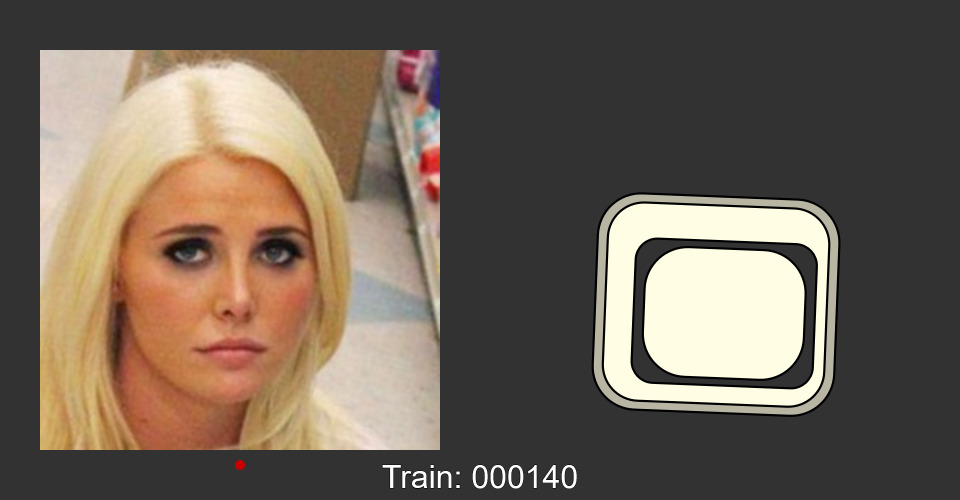
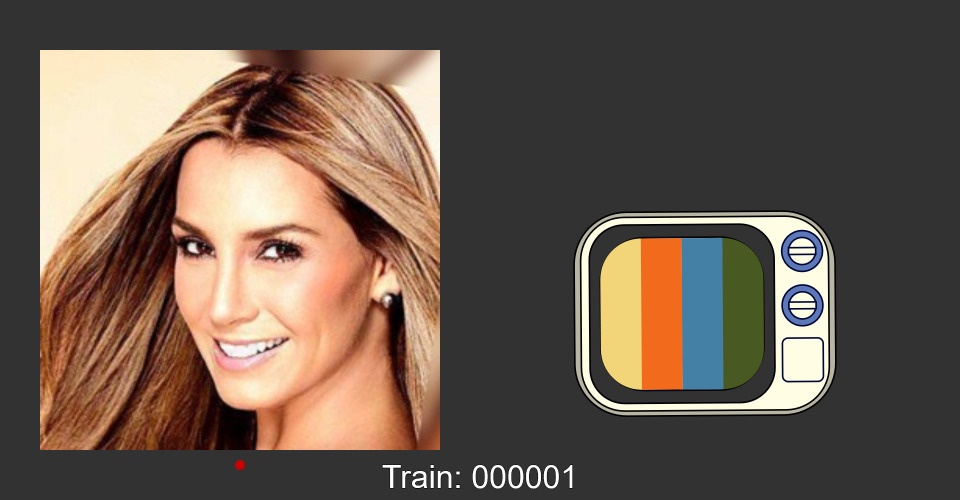
test pattern

diff --git a/face.js b/face.js
@@ -58,14 +58,17 @@ function Face() {
   this.draw = function(positions) {
     this.headPosX = positions.nose_bridge[0][0]; // Use nose coordinate as center of the face
     this.headPosY = positions.nose_bridge[3][1];
-    this.headWidth = positions.chin[16][0] - positions.chin[0][0]; // Use 1st and last points of chin to get width
-    this.headHeight = positions.chin[8][1] - positions.nose_bridge[0][1]; // Top nose bridge point to bottom chin point
+    // this.headWidth = positions.chin[16][0] - positions.chin[0][0]; // Use 1st and last points of chin to get width
+    // this.headHeight = positions.chin[8][1] - positions.nose_bridge[0][1]; // Top nose bridge point to bottom chin point
+    this.headWidth = 4;
+    this.headHeight = 2.5;
     this.noseTipCenterX = positions.nose_tip[2][0]; // Center point of nose tip, to use for finding the offset of head left or right side
-    this.roundCorner; // Radius of round corner (or tangent circle's radius)
+    this.roundCorner = 0.8; // Radius of round corner (or tangent circle's radius)
     this.headSize_L = positions.nose_tip[2][0] - positions.chin[2][0]; // Size of left side head
     this.headSize_R = positions.chin[14][0] - positions.nose_tip[2][0]; // Size of right side head
     this.headOffset;
-    this.headOffsetRatio;
+    this.eyePos_X;
+    this.eyePos_Y;
 
     this.topLeftCorner_X = this.headPosX - this.headWidth / 2 + this.roundCorner * 2;
     this.topLeftCorner_Y = this.headPosY - this.headHeight*1.25 /2 + this.roundCorner * 2;
@@ -83,26 +86,32 @@ function Face() {
     rectMode(CENTER);
     
     stroke(stroke_color);
-    strokeWeight(0.04);
+    strokeWeight(0.03);
     fill(this.mainColour);
 
     push();
     // Finding the short side of head to define the Radius
-    if(this.headWidth < this.headHeight) {
-      this.roundCorner = this.headWidth * 0.25; 
-    } 
-    else if(this.headWidth > this.headHeight){
-      this.roundCorner = this.headHeight * 0.25;
-    }
+    // if(this.headWidth < this.headHeight) {
+    //   this.roundCorner = this.headWidth * 0.25; 
+    // } 
+    // else if(this.headWidth > this.headHeight){
+    //   this.roundCorner = this.headHeight * 0.25;
+    // }
 
     // To get the facing direction
     if(this.headSize_L < this.headSize_R){
-      this.headOffset = this.headSize_R * (this.headSize_R / this.headSize_L);
-      this.headOffsetRatio = this.headSize_R / this.headSize_L;
+      this.headOffset = -this.headWidth * 1.5;
+      this.eyePos_X = 1.5;
+      this.eyePos_Y = -0.9;
+      // this.headOffset = this.headSize_R * (this.headSize_R / this.headSize_L);
+      // this.headOffsetRatio = this.headSize_R / this.headSize_L;
     }
     else if(this.headSize_L > this.headSize_R){
-      this.headOffset = -this.headSize_L * (this.headSize_L / this.headSize_R);
-      this.headOffsetRatio = this.headSize_L / this.headSize_R;
+      this.headOffset = this.headWidth * 1.5;
+      this.eyePos_X = -1.5;
+      this.eyePos_Y = -0.9;
+      // this.headOffset = -this.headSize_L * (this.headSize_L / this.headSize_R);
+      // this.headOffsetRatio = this.headSize_L / this.headSize_R;
     }
     // rect(segment_average(positions.chin)[0]+1.4, 0, 3.6, 3, 0.9);
     // rect(segment_average(positions.chin)[0]+1, 0, 3.6, 3.5, 0.5);
@@ -114,21 +123,34 @@ function Face() {
 
     push();
     // translate(this.headOffset*0.12, 0);
-    rect(this.headPosX, this.headPosY, this.headWidth*1.1, this.headHeight*1.25*1.1, this.roundCorner);
+    rect(this.headPosX, this.headPosY, this.headWidth*1.14, this.headHeight*1.25*1.14, this.roundCorner);
     pop();
 
     push();
     // strokeWeight(0.1);
     // translate(this.headOffset*0.12, 0);
     fill(50,50,50);
-    rect(this.headPosX - this.headOffset*0.05, this.headPosY - this.headOffset*0.05, this.headWidth*0.9, this.headHeight, this.roundCorner * 0.6);
+    rect(this.headPosX + this.headOffset*0.07, this.headPosY, this.headWidth*0.85, this.headHeight*1.25*1.05, this.roundCorner * 0.8);
     pop();
 
     push();
     // strokeWeight(0.1);
     // translate(this.headOffset*0.12, 0);
     fill(this.mainColour);
-    rect(this.headPosX - this.headOffset*0.05, this.headPosY - this.headOffset*0.05, this.headWidth*0.8, this.headHeight*0.9, this.roundCorner * 1.2);
+    rect(this.headPosX + this.headOffset*0.07, this.headPosY, this.headWidth*0.75, this.headHeight*1.25*0.9, this.roundCorner * 1);
+    pop();
+
+    // Draw the 'Test Pattern' screen
+    push();
+    noStroke();
+    fill('#F2D479');
+    rect(this.headPosX + this.headOffset*0.07 - 0.75, this.headPosY, this.headWidth*0.75*0.5, this.headHeight*1.25*0.89, this.roundCorner * 1);
+    fill('#485922');
+    rect(this.headPosX + this.headOffset*0.07 + 0.75, this.headPosY, this.headWidth*0.75*0.5, this.headHeight*1.25*0.89, this.roundCorner * 1);
+    fill('#F26A1B');
+    rect(this.headPosX + this.headOffset*0.07 - 0.375, this.headPosY, this.headWidth*0.75*0.25, this.headHeight*1.25*0.89, this.roundCorner * 0);
+    fill('#4480A6');
+    rect(this.headPosX + this.headOffset*0.07 + 0.375, this.headPosY, this.headWidth*0.75*0.25, this.headHeight*1.25*0.89, this.roundCorner * 0);
     pop();
 
     // Draw circle helper
@@ -227,38 +249,43 @@ function Face() {
     
     ///////////////////////////////////////////////////////////////
 
-    // eyes
-    // push();
-    // let left_eye_pos = segment_average(positions.left_eye);
-    // let right_eye_pos = segment_average(positions.right_eye);
+    // Knobs (eyes)
+    push();
+    let left_eye_pos = segment_average(positions.left_eye);
+    let right_eye_pos = segment_average(positions.right_eye);
 
-    // // blendMode(BURN);
-    // noFill();
-    // stroke(0, 7, 56);
-    // let curEyeShift = 0.04 * this.eye_shift;
-    // if(this.num_eyes == 2) {
-    //   // fill(this.detailColour);
-    //   ellipse(left_eye_pos[0]+0.1, positions.nose_bridge[2][1], this.headHeight*0.5, this.headHeight*0.5);
-    //   ellipse(right_eye_pos[0]-0.1, positions.nose_bridge[2][1], this.headHeight*0.5, this.headHeight*0.5);
+    // blendMode(BURN);
+    noFill();
+    stroke(0, 7, 56);
+    let curEyeShift = 0.04 * this.eye_shift;
+    if(this.num_eyes == 2) {
+      fill(this.detailColour);
+      ellipse(this.eyePos_X, this.eyePos_Y, this.headHeight*0.3);
+      ellipse(this.eyePos_X, this.eyePos_Y+1, this.headHeight*0.3);
+      fill(this.mainColour);
+      ellipse(this.eyePos_X, this.eyePos_Y, this.headHeight*0.2);
+      ellipse(this.eyePos_X, this.eyePos_Y+1, this.headHeight*0.2);
+      rect(this.eyePos_X, this.eyePos_Y, this.headHeight*0.2, this.headHeight*0.05);
+      rect(this.eyePos_X, this.eyePos_Y+1, this.headHeight*0.2, this.headHeight*0.05);
 
-    //   ellipse(left_eye_pos[0]+0.1 + curEyeShift, positions.nose_bridge[2][1], this.headHeight*0.2);
-    //   ellipse(right_eye_pos[0]-0.1 + curEyeShift, positions.nose_bridge[2][1], this.headHeight*0.2);
+      rect(this.eyePos_X, this.eyePos_Y+2, this.headHeight*0.3, this.headWidth*0.2, 0.1);
 
-    //   fill(0);
-    //   arc(left_eye_pos[0]+0.1, positions.nose_bridge[2][1], this.headHeight*0.5, this.headHeight*0.5, 180, 360, CHORD);
-    //   arc(right_eye_pos[0]-0.1, positions.nose_bridge[2][1], this.headHeight*0.5, this.headHeight*0.5, 180, 360, CHORD);
-    // }
-    // else {
-    //   let eyePosX = (left_eye_pos[0] + right_eye_pos[0]) / 2;
-    //   let eyePosY = (left_eye_pos[1] + right_eye_pos[1]) / 2;
+      // Eye lids
+      // fill(0);
+      // arc(left_eye_pos[0]+0.1, positions.nose_bridge[2][1], this.headHeight*0.5, this.headHeight*0.5, 180, 360, CHORD);
+      // arc(right_eye_pos[0]-0.1, positions.nose_bridge[2][1], this.headHeight*0.5, this.headHeight*0.5, 180, 360, CHORD);
+    }
+    else {
+      let eyePosX = (left_eye_pos[0] + right_eye_pos[0]) / 2;
+      let eyePosY = (left_eye_pos[1] + right_eye_pos[1]) / 2;
 
-    //   fill(this.detailColour);
-    //   ellipse(eyePosX, eyePosY, 0.45, 0.27);
+      fill(this.detailColour);
+      ellipse(eyePosX, eyePosY, 0.45, 0.27);
 
-    //   fill(this.mainColour);
-    //   ellipse(eyePosX - 0.1 + curEyeShift, eyePosY, 0.18);
-    // }
-    // pop();
+      fill(this.mainColour);
+      ellipse(eyePosX - 0.1 + curEyeShift, eyePosY, 0.18);
+    }
+    pop();
     ///////////////////////////////////////////////////////////////
 
     // nose

diff --git a/README.md b/README.md
@@ -2,4 +2,4 @@
 [![Open in Visual Studio Code](https://classroom.github.com/assets/open-in-vscode-718a45dd9cf7e7f842a935f5ebbe5719a5e09af4491e668f4dbf3b35d5cca122.svg)](https://classroom.github.com/online_ide?assignment_repo_id=11103452&assignment_repo_type=AssignmentRepo)
 ## 2023 MDDN342 Assignment 3: Data Mappings
 
-I've changed my mind. I'll draw the front view of the face and using solid colour with more details of the CRT head. Also I'll make the face more a TV set, as I can add knobs on it.
+The Knobs and screen 'test pattern' have been done.
